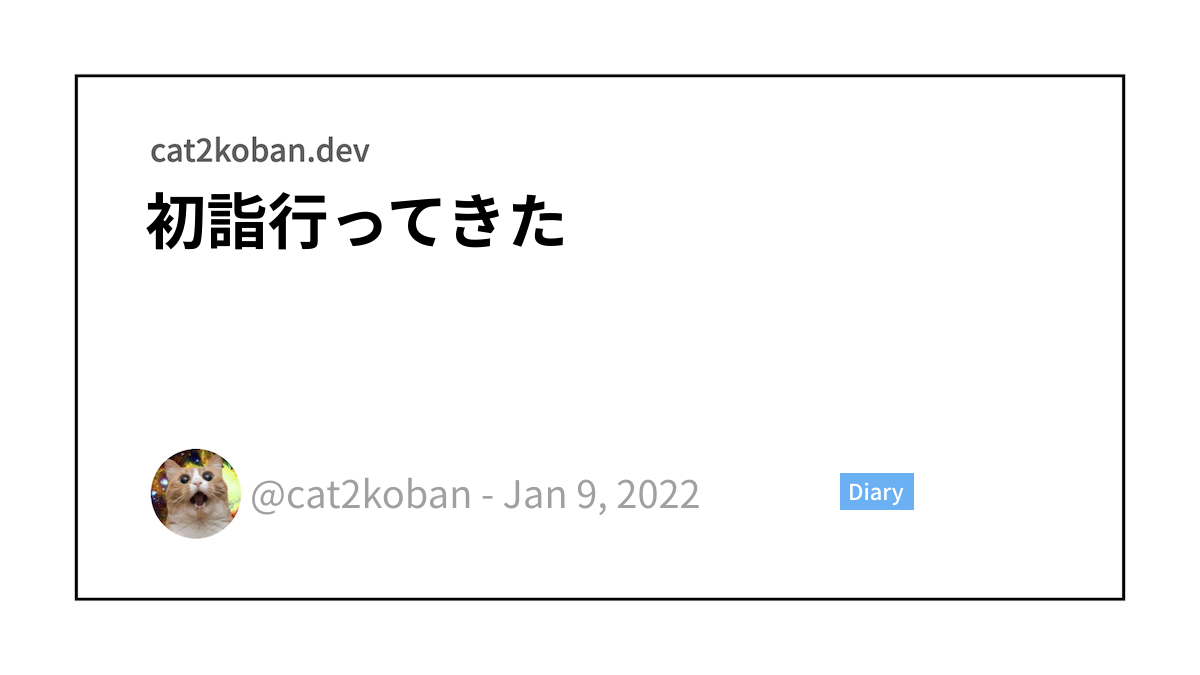
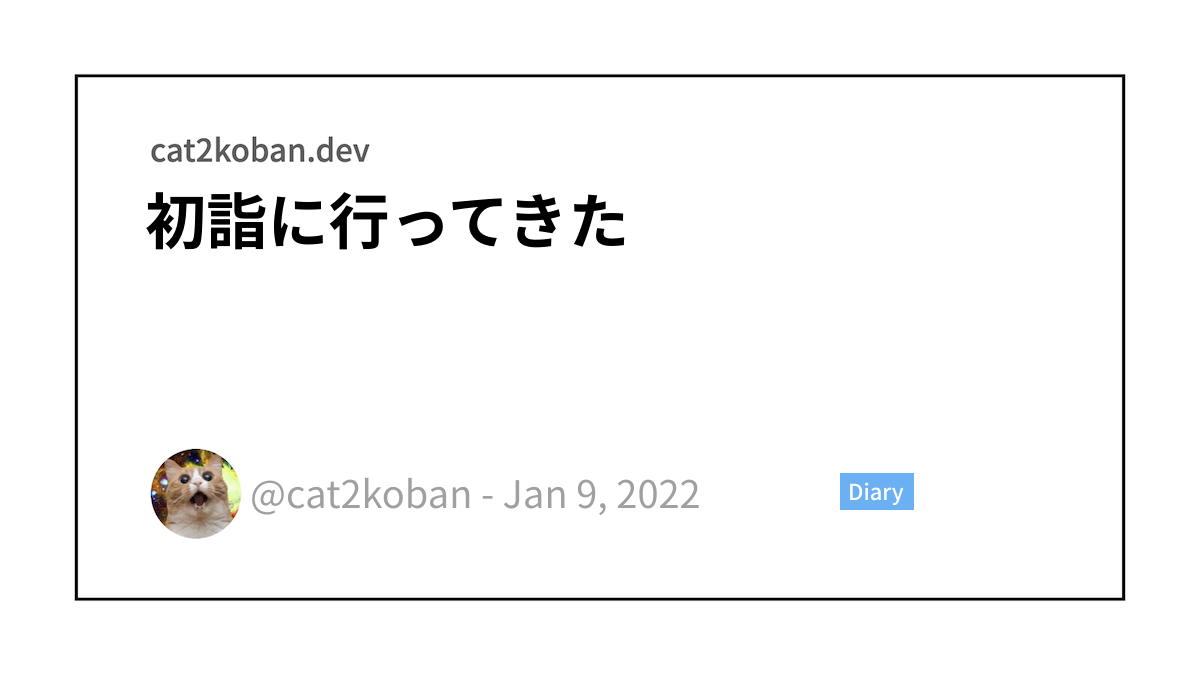
Fix title

Changed region(s): [[0.2158, 0.28, 0.5242, 0.3733]]

diff --git a/content/posts/2022-01-09.md b/content/posts/2022-01-09.md
@@ -1,6 +1,6 @@
 ---
 categories: ["blah"]
-title: "初詣行ってきた"
+title: "初詣に行ってきた"
 author: cat2koban
 date: 2022-01-09T12:04:05Z
 tags: [diary]
